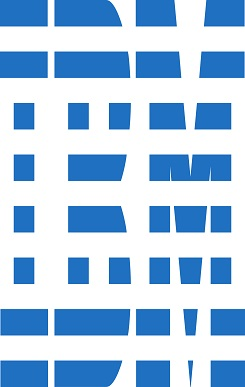
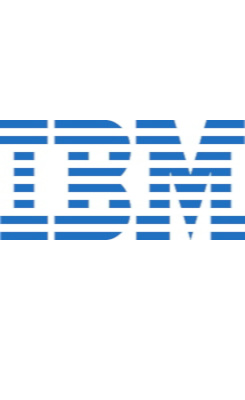
Adding previous events

diff --git a/_posts/2017-09-30-IEEE-Young-Entrepreneurs-Open-Day.md b/_posts/2017-09-30-IEEE-Young-Entrepreneurs-Open-Day.md
@@ -1,0 +1,63 @@
+---
+title: "IEEE Young Entrepreneurs Open Day -Edinburgh,UK- 2017"
+date: 2017-09-30T23:34:30+01:00
+categories:
+  - previous-events
+tags:
+  - Edinburgh
+sidebar:
+  nav: "home_sidebar"
+---
+{% include video id="H5PG6Z3XfY8" provider="youtube" %}
+
+# Event summary of IEEE Young Entrepreneurs Open Day, Edinburgh,UK 2017
+
+Welcome to the IEEE Young Entrepreneurs Open Day 2017!
+
+On behalf of the IEEE UK and Ireland Section, we are pleased to invite you to the second of a series of seminars across the country that will focus on developing the professional skills of young engineering students and graduates
+
+Over the past forty years, rising numbers of workforce in the global economy have been denied access to secure and decently paid work with reasonable prospects. On average one fifth of those currently employed or self-employed do not think their jobs are secure. This even applies to those in middle income and higher paid roles. The students and young professionals face a challenging world with less opportunities and tough entry into the world of work, employment and professional development. This event focuses on the role that the UK & Ireland Section of IEEE can play in supporting and preparing the students and Young Professionals for facing the emerging systemic challenges. The event is intended as a response to the Institution’s corporate social responsibility within the UK & Ireland and in collaboration/partnership with public and private enterprises in the Section.
+
+# Programme
+
+**Creating a platform for the young professionals**
+
+Networking and Career Development
+
+The one-day event will include talks from technical and business experts, who will share their experiences, insights and resources on successful career development and business start-up. It will also feature three workshops organised by our leading industry partners that will help delegates develop a range of technical and soft skills. The attendees will have the chance to stay on top of the latest technological developments in the exhibition area, and network with other professionals over refreshments during break-out sessions and a buffet lunch.
+
+There is a lot going on at the open day to help you achieve your career goals, including:
+• Introduction to IEEE services for student sand young professional members.
+
+Don't miss out on this amazing program where you can meet some of the biggest names in the technology industry, as well as enhance your knowledge, skills and network with industry professionals. 
+
+[FULL PROGRAMME LIST](https://drive.google.com/file/d/0B4qTNvaOMM0ydzF1eUcxYkw0b0E/view){: .btn .btn--success}
+
+# Venue
+
+Edinburgh is the capital city of Scotland and one of its 32 council areas. It is located in Lothian on the Firth of Forth's southern shore. Recognised as the capital of Scotland since at least the 15th century, Edinburgh is home to the Scottish Parliament and the seat of the monarchy in Scotland. Historically part of Midlothian, the city has long been a centre of education, particularly in the fields of medicine, Scots law, literature, the sciences and engineering. It is the largest financial centre in the UK after London. The city's historical and cultural attractions have made it the United Kingdom's second most popular tourist destination after London, attracting over one million overseas visitors each year. Edinburgh is Scotland's second most populous city and the seventh most populous in the United Kingdom.The city is the annual venue of the General Assembly of the Church of Scotland. It is home to national institutions such as the National Museum of Scotland, the National Library of Scotland and the Scottish National Gallery.Historic sites in Edinburgh include Edinburgh Castle, Holyrood Palace, the churches of St. Giles, Greyfriars and the Canongate, and the extensive Georgian New Town, built in the 18th century. Edinburgh's Old Town and New Town together are listed as a UNESCO World Heritage Site,which has been managed by Edinburgh World Heritage since 1999..
+
+**University of Edinburgh Address:**
+
+University of Edinburgh , Old College, South Bridge, Edinburgh EH8 9YL
+
+[HOW TO GET THERE](http://www.ed.ac.uk/visit/city/getting-here ){: .btn .btn--success}
+
+<iframe src="https://www.google.com/maps/embed?pb=!1m14!1m8!1m3!1d4468.560317550601!2d-3.189241!3d55.944516!3m2!1i1024!2i768!4f13.1!3m3!1m2!1s0x0%3A0xb21928d390bbc0ee!2sThe%20University%20of%20Edinburgh!5e0!3m2!1sen!2suk!4v1567019535014!5m2!1sen!2suk" width="600" height="450" frameborder="0" style="border:0;" allowfullscreen=""></iframe>
+
+# Contact us
+
+**Prof A G Hessami**<br>
+IEEE Young Entrepreneurs Open Day Chair<br>
+IEEE UK& Ireland Section Chair<br>
+Email: Hessami@vegaglobalsystems.com<br>
+
+**Noel Gomes**<br>
+IEEE Young Entrepreneurs Open Day Organising Committee<br>
+IEEE UK& Ireland Young Professionals Chair<br>
+Email: noelgomes@ieee.org<br>
+
+**Veronika Nesheva**<br>
+IEEE Young Entrepreneurs Open Day Organising Committee<br>
+IEEE UK& Ireland Student Activities Chair<br>
+Email: veronikanesheva@gmail.com<br>

diff --git a/_posts/2016-01-01-dublin-openday-2016.md b/_posts/2016-01-01-dublin-openday-2016.md
@@ -8,6 +8,31 @@ tags:
   - Dublin
 sidebar:
   nav: "home_sidebar"
+sponsors_gallery:
+  - url: http://www.awe.co.uk/
+    image_path: /assets/images/opd_16/sp1.jpg
+    alt: "AWE"
+    title: "Gold sponsor"
+  - url: https://digitalgarage.withgoogle.com/
+    image_path: /assets/images/opd_16/sp2.jpg
+    alt: "The digital garage"
+    title: "Our supporting partner"
+  - url: http://www.ieee-ukandireland.org/
+    image_path: /assets/images/opd_16/sp3.jpg
+    alt: "IEEE UK and Ireland"
+    title: "Our supporting partner"
+  - url: http://www.ieee-ukandireland.org/
+    image_path: /assets/images/opd_16/sp4.jpg
+    alt: "IBM"
+    title: "Our supporting partner"
+  - url: http://www.joinef.com/
+    image_path: /assets/images/opd_16/sp5.jpg
+    alt: "ef"
+    title: "Our supporting partner"
+  - url: https://www.gre.ac.uk
+    image_path: /assets/images/opd_16/sp6.jpg
+    alt: "University of Greenwich"
+    title: "Our supporting partner"
 ---
 {% include video id="H5PG6Z3XfY8" provider="youtube" %}
 
@@ -40,3 +65,36 @@ Sponsorship of the IEEE Young Entrepreneurs Open Day will provide your organizat
 We offer a number of partnership, sponsorship and exhibition opportunities. All of our packages are tailored to meet the requirements of your organisation, and we work with our sponsors on a bespoke basis to ensure you receive maximum benefit. If you wish to be a part of this event, please refer to the sponsorship prospectus via the link below and feel free to contact us to discuss your needs.
 
 The event is kindly supported by our industrial sponsors, exhibitors and supporting partners, who will be glad to meet you at their stalls, located at the circulation area outside the ‘Royal George’ lecture theatre.
+
+[SPONSORSHIP PROSPECTUS](https://drive.google.com/open?id=0BzVmvSy2LTXyVkhBclFsR0lhUms){: .btn .btn--success}
+
+{% include gallery id="sponsors_gallery" caption="" %}
+
+# Venue
+
+Greenwich is an early-established district of London, which is notable for its maritime history and for giving its name to the Greenwich Meridian (0° longitude) and Greenwich Mean Time. The town became the site of a royal palace, the Palace of Placentia from the 15th century, and was the birthplace of many Tudors, including Henry VIII and Elizabeth I.
+
+**University of Greenwich Address:**
+
+Old Royal Naval College, Park Row, London SE10 9LS
+
+[HOW TO GET THERE](http://www2.gre.ac.uk/about/travel/greenwich){: .btn .btn--success}
+
+<iframe src="https://www.google.com/maps/embed?pb=!1m14!1m8!1m3!1d4969.300811695546!2d-0.006995000000000001!3d51.482931!3m2!1i1024!2i768!4f13.1!3m3!1m2!1s0x0%3A0xa66a5fccf89e51c4!2sUniversity%20of%20Greenwich%2C%20London!5e0!3m2!1sen!2sus!4v1567017611942!5m2!1sen!2sus" width="600" height="450" frameborder="0" style="border:0;" allowfullscreen=""></iframe>
+
+# Contact us
+
+**Prof A G Hessami**<br>
+IEEE Young Entrepreneurs Open Day Chair<br>
+IEEE UK& Ireland Section Chair<br>
+Email: Hessami@vegaglobalsystems.com<br>
+
+**Noel Gomes**<br>
+IEEE Young Entrepreneurs Open Day Organising Committee<br>
+IEEE UK& Ireland Young Professionals Chair<br>
+Email: noelgomes@ieee.org<br>
+
+**Veronika Nesheva**<br>
+IEEE Young Entrepreneurs Open Day Organising Committee<br>
+IEEE UK& Ireland Student Activities Chair<br>
+Email: veronikanesheva@gmail.com<br>

diff --git a/_posts/2014-08-06-IEEE-Region-8-Student-and-Young-Professional-Congress.md b/_posts/2014-08-06-IEEE-Region-8-Student-and-Young-Professional-Congress.md
@@ -1,0 +1,10 @@
+---
+title: IEEE Region 8 Student and Young Professional Congress
+redirect_to: https://ieeer8.org/student-activities/ieee-region-8-student-and-young-professional-congress-syp-2014/
+categories:
+  - previous-events
+tags:
+  - Krakow
+sidebar:
+  nav: "home_sidebar"
+---
